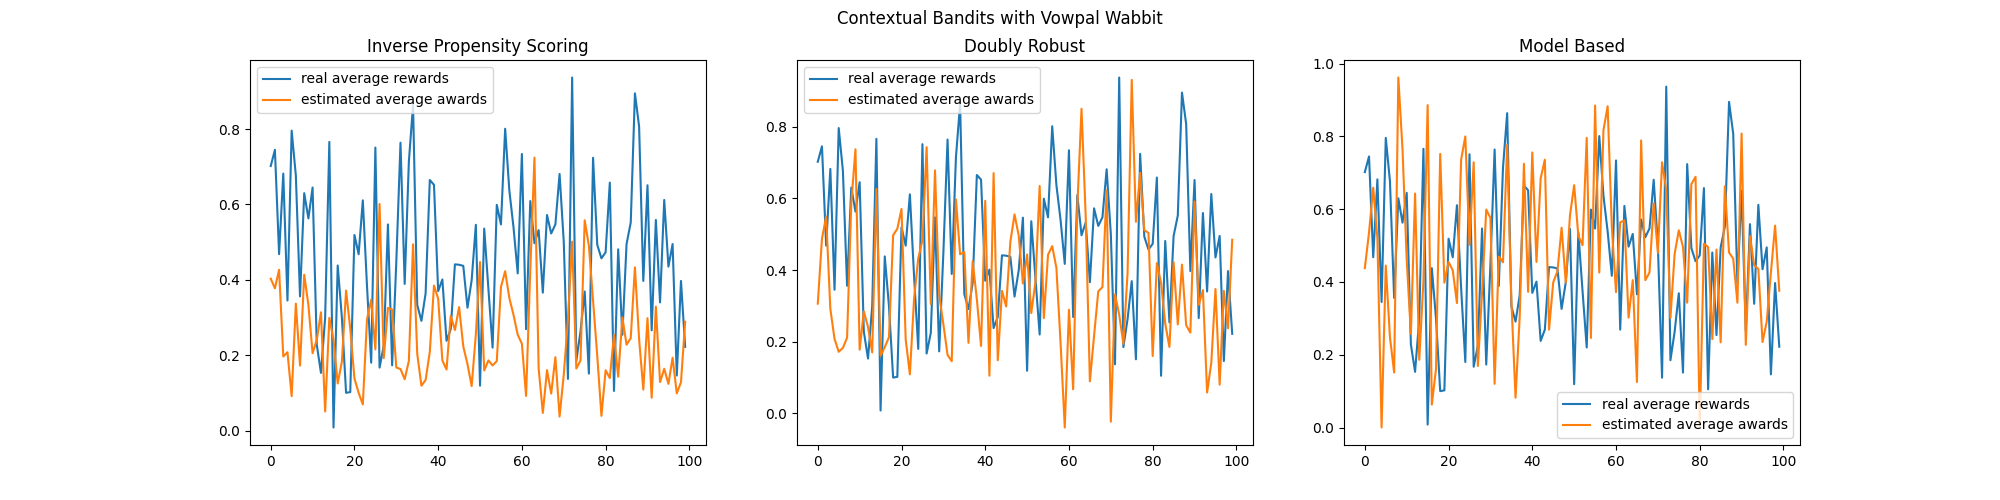
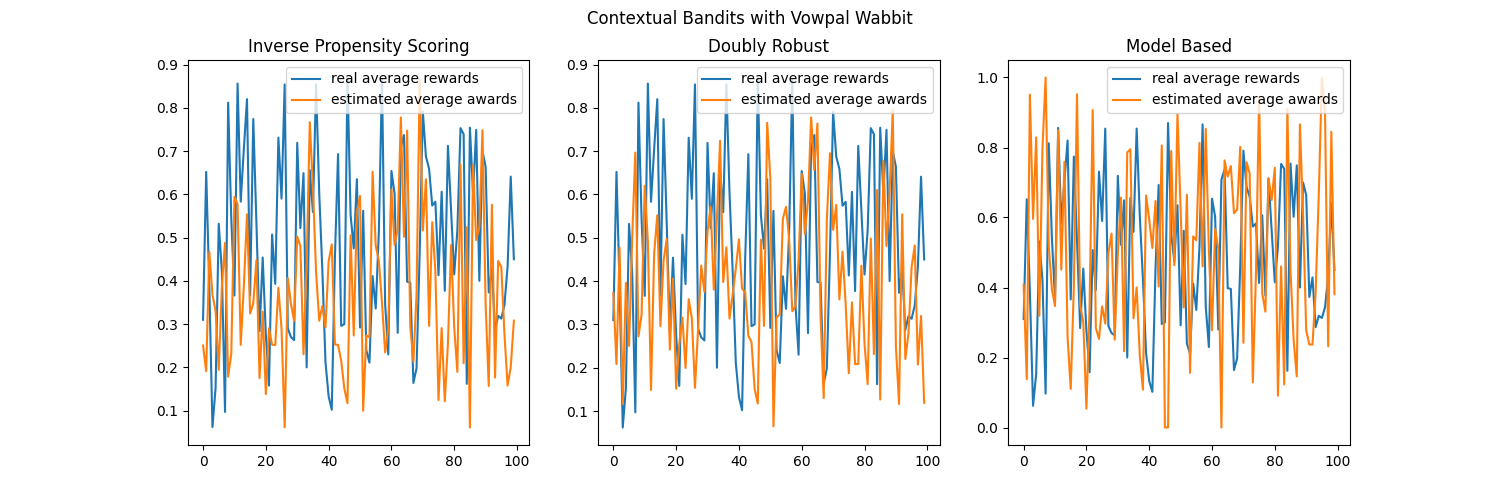
increse the dimension of context and fix mb evaluator

diff --git a/src/creating_plots.py b/src/creating_plots.py
@@ -23,7 +23,7 @@ def create_plot(PolicyClass, policy_name):
         real_means_mb.append(real_mean_mb)
         eval_means_mb.append(eval_mean_mb)
 
-    fig, (ax1, ax2, ax3) = plt.subplots(1, 3, figsize=(20, 5))
+    fig, (ax1, ax2, ax3) = plt.subplots(1, 3, figsize=(15, 5))
     fig.suptitle(policy_name)
 
     ax1.set_title("Inverse Propensity Scoring")
@@ -53,8 +53,9 @@ def create_plot_CBVowpalWabbit():
     eval_means_dr = []
     real_means_mb = []
     eval_means_mb = []
-    log_policy_ = simulation(RandomPolicy)
+    # log_policy_ = simulation(RandomPolicy) # I'm not sure if I need to generate log_policy_ many times
     for _ in range(100):
+        log_policy_ = simulation(RandomPolicy)
         eval_policy_ = simulation(CBVowpalWabbit, log_policy_.history)
         real_mean_ips, eval_mean_ips = ips(log_policy_, eval_policy_)
         real_mean_dr, eval_mean_dr = dr(log_policy_, eval_policy_)
@@ -66,7 +67,7 @@ def create_plot_CBVowpalWabbit():
         real_means_mb.append(real_mean_mb)
         eval_means_mb.append(eval_mean_mb)
 
-    fig, (ax1, ax2, ax3) = plt.subplots(1, 3, figsize=(20, 5))
+    fig, (ax1, ax2, ax3) = plt.subplots(1, 3, figsize=(15, 5))
     fig.suptitle("Contextual Bandits with Vowpal Wabbit")
 
     ax1.set_title("Inverse Propensity Scoring")

diff --git a/src/evaluator.py b/src/evaluator.py
@@ -26,7 +26,7 @@ class DoublyRobustEstimator:
         self.model_based_estimator = model_based_estimator
 
     def evaluate_one_reward(self, x, a, r):
-        mb = self.model_based_estimator.predict([np.append(x, [a])])[0]  # it can be round
+        mb = self.model_based_estimator.predict([np.append(x, [self.eval_policy.give_a(x)])])[0]  # it can be round
         return mb + (r - mb) * self.eval_policy.give_probability(x, a) / self.log_policy.give_probability(x, a)
 
     def evaluate_policy(self):
@@ -44,7 +44,7 @@ class ModelBasedEstimator:
         self.model_based_estimator = model_based_estimator
 
     def evaluate_one_reward(self, x, a, r):
-        mb = self.model_based_estimator.predict([np.append(x, [a])])[0]  # it can be round
+        mb = self.model_based_estimator.predict([np.append(x, [self.eval_policy.give_a(x)])])[0]  # it can be round
         return mb
 
     def evaluate_policy(self):

diff --git a/src/main.py b/src/main.py
@@ -11,8 +11,8 @@ from sklearn.linear_model import LinearRegression, LogisticRegression
 
 
 def parallel_stimulation(LogPolicyClass, EvalPolicyClass):
-    actions = np.arange(10)
-    contexts = np.random.randint(2, size=(20, 5))
+    actions = np.arange(20)
+    contexts = np.random.randint(2, size=(20, 100))
     log_policy = LogPolicyClass(actions)
     eval_policy = EvalPolicyClass(actions)
     simulator = ParallelSimulator(contexts, actions, log_policy, eval_policy)
@@ -21,8 +21,8 @@ def parallel_stimulation(LogPolicyClass, EvalPolicyClass):
 
 
 def simulation(PolicyClass, *args):
-    actions = np.arange(10)
-    contexts = np.random.randint(2, size=(20, 5))
+    actions = np.arange(20)
+    contexts = np.random.randint(2, size=(20, 100))
     policy = PolicyClass(actions, *args)
     simulator = Simulator(contexts, actions, policy)
     simulator.simulate(1000)
